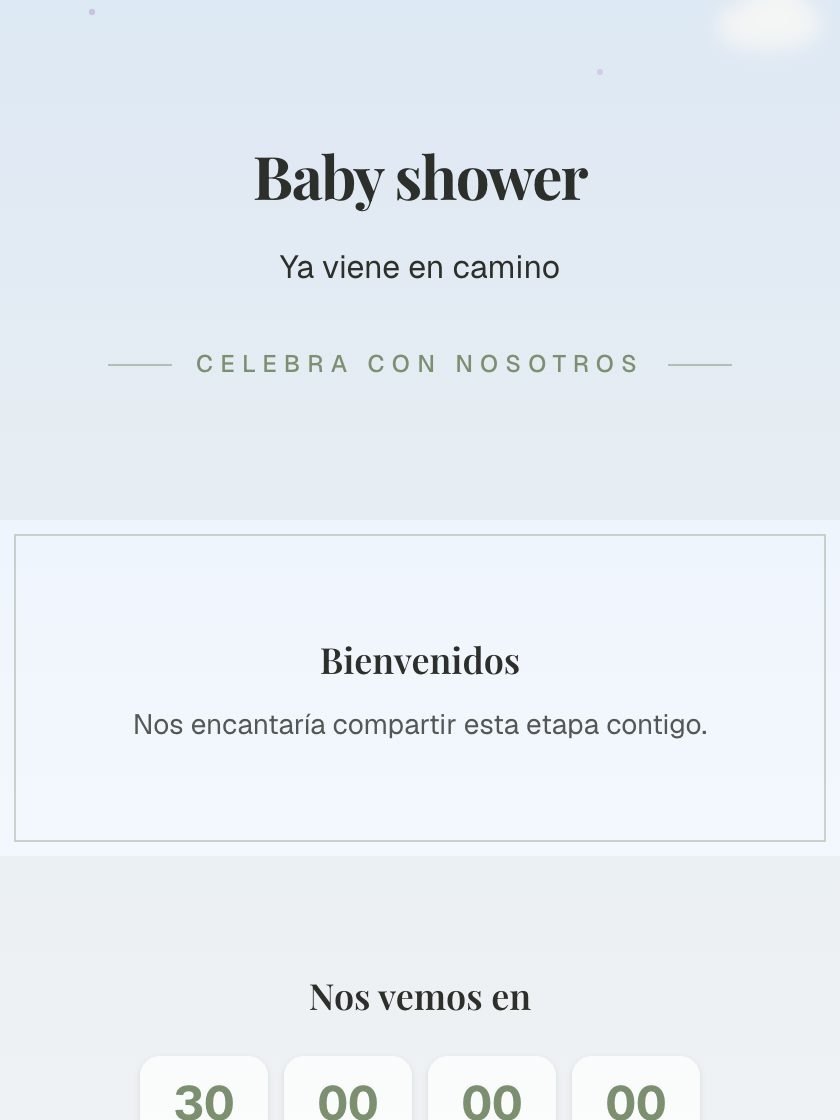
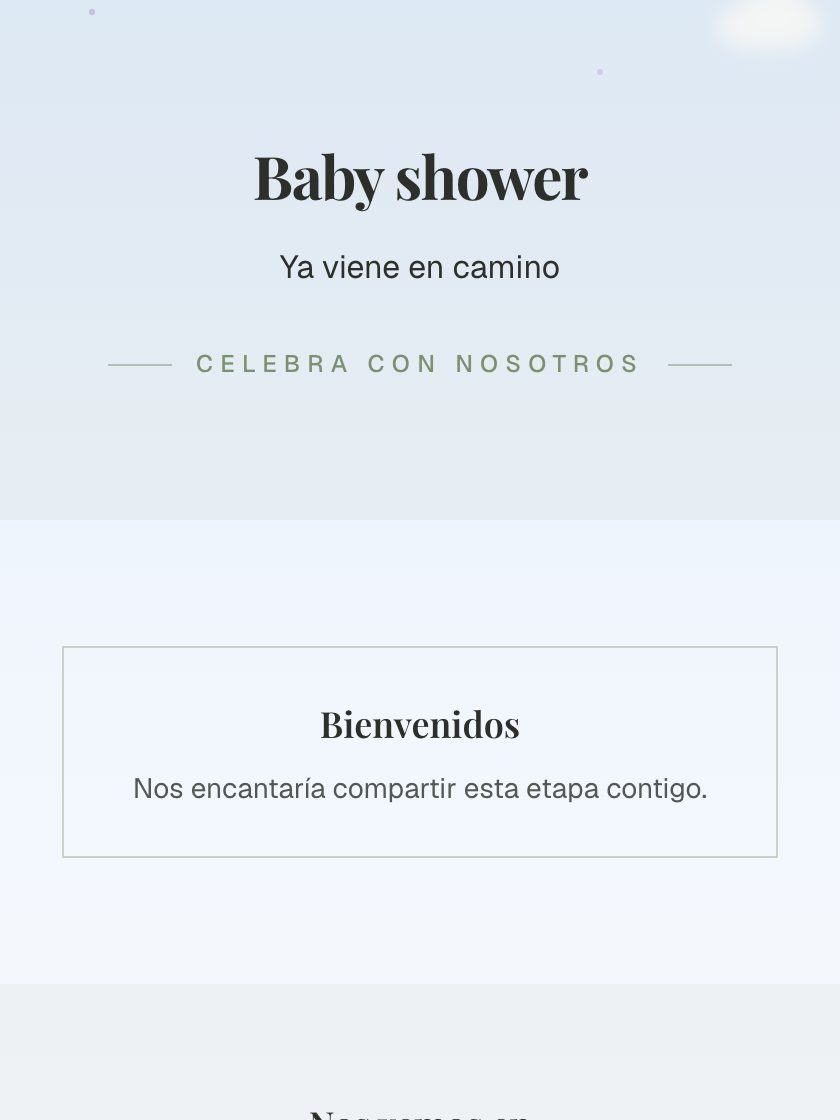
fix(tema): el marco sale del contenedor y envuelve el contenido — y la repuntuacion
EL ARREGLO. `FRAME_CLASSES` ponia el borde en el contenedor de la seccion, que
por debajo del breakpoint es A SANGRE: en movil el marco tocaba los dos bordes
de la pantalla y la pieza dejaba de leerse como tarjeta.

Envolviendo el CONTENIDO, el marco queda dentro del `px-6`/`px-10` del
contenedor y se separa de los bordes en cualquier ancho. Medido sobre `xv-seda`:

           antes              ahora
  1200px   896 · margen 152   816 · margen 192
   375px   375 · margen 0     327 · margen 24

Y no se hizo con un `mx-4`, que era lo obvio y estaba mal: tailwind-merge pone
`mx-4` y `mx-auto` en el MISMO grupo, asi que habria BORRADO el centrado de la
seccion en escritorio.

Recapturadas las 15 del piloto y solo cambiaron SIETE: exactamente las que
llevan el marco dentro del recorte de 560px. Las otras ocho, byte identicas. Las
4 de control de las 50 originales, tambien.

LA REPUNTUACION, Y MI PRONOSTICO ERA FALSO. El §19.3 predecia que el arreglo
«probablemente sube 3 o 4 al umbral». **Cruzaron CERO. Sigue 7 de 15.** Mobile
Potential sube de 6 a 8 en las siete penalizadas, pero:

  el deficit de las F4 no estaba en el movil. Esta en Uniqueness, Event
  Relevance y Premium Feel, tres columnas que un margen no toca.

Las dos mas cercanas se quedan fuera: corporativo-reticula 7.8, xv-seda 7.7.
`comunion-cinta` pasa de 5.5 a 5.8 y sigue siendo la peor.

Eso ENDURECE la conclusion del §19: el problema de F4 es de CONTENIDO, no de
[…]

diff --git a/src/components/modules/previews.tsx b/src/components/modules/previews.tsx
@@ -228,11 +228,43 @@ function Section({
   // el de antes, sin una envoltura de más. Es lo que permite comprobar por md5
   // que las 50 no se mueven.
   const conMedia = Boolean(media && media.position !== "none" && media.url);
-  const contenido = conMedia ? (
+  const cuerpo = conMedia ? (
     <ConMedia media={media!}>{children}</ConMedia>
   ) : (
     children
   );
+
+  // El marco envuelve el CONTENIDO, no el contenedor de la seccion.
+  //
+  // Estaba al reves y se veia solo en movil: el contenedor es a sangre por
+  // debajo del breakpoint, asi que el borde tocaba los dos lados de la pantalla
+  // y la pieza dejaba de leerse como tarjeta. Medido sobre `xv-seda`: a 1200 px
+  // el marco media 896 con 152 de margen a cada lado; a 375 px media 375 con
+  // margen CERO.
+  //
+  // Envolviendo el contenido, el marco queda dentro del `px-6`/`px-10` del
+  // contenedor y se separa de los bordes en CUALQUIER ancho, sin pelearse con
+  // el `mx-auto` que centra la seccion — un `mx-4` habria BORRADO ese
+  // `mx-auto`, porque tailwind-merge los pone en el mismo grupo.
+  //
+  // `w-full` porque casi todos los sitios de llamada son `flex items-center`, y
+  // sin el el marco se encogeria al ancho de su contenido.
+  const contenido =
+    frame === "none" ? (
+      cuerpo
+    ) : (
+      <div
+        className={cn("w-full", FRAME_CLASSES[frame])}
+        style={{
+          borderColor:
+            "color-mix(in srgb, var(--inv-primary, #888) 35%, transparent)",
+          outlineColor:
+            "color-mix(in srgb, var(--inv-primary, #888) 35%, transparent)",
+        }}
+      >
+        {cuerpo}
+      </div>
+    );
 
   return (
     <section
@@ -253,23 +285,10 @@ function Section({
           // resultado es, literalmente, el de antes.
           ALIGN_CLASSES[align],
           BLEED_CLASSES[bleed],
-          FRAME_CLASSES[frame],
           // `relative` solo con fondo: es el bloque contenedor de la capa
           // absoluta. Condicional para no tocar el camino por defecto.
           conMedia && media!.position === "background" && "relative",
         )}
-        // `undefined` sin marco: React omite el atributo y el HTML es el mismo
-        // de antes, byte a byte.
-        style={
-          frame === "none"
-            ? undefined
-            : {
-                borderColor:
-                  "color-mix(in srgb, var(--inv-primary, #888) 35%, transparent)",
-                outlineColor:
-                  "color-mix(in srgb, var(--inv-primary, #888) 35%, transparent)",
-              }
-        }
       >
         {contenido}
       </div>

diff --git a/src/lib/modules/portada-marco-stickers.test.ts b/src/lib/modules/portada-marco-stickers.test.ts
@@ -86,11 +86,13 @@ describe("P5 · marco de papelería", () => {
     expect(src.slice(i, src.indexOf("};", i))).toMatch(/none:\s*""/);
   });
 
-  it("sin marco no se emite `style` en el contenedor", () => {
-    // React omite el atributo con `undefined`, y por eso el HTML por defecto es
-    // idéntico byte a byte.
+  it("sin marco NO se añade ninguna envoltura", () => {
+    // Antes el marco vivía en el contenedor y esto comprobaba que no se emitía
+    // `style`. Desde que envuelve el contenido —para que no toque los bordes en
+    // móvil— la propiedad equivalente, y la que sostiene el «cero píxeles», es
+    // que con `none` el contenido pase TAL CUAL, sin un div de más.
     const src = leer("../../components/modules/previews.tsx");
-    expect(src).toContain('frame === "none"\n            ? undefined');
+    expect(src).toMatch(/frame === "none" \?\s*\(?\s*cuerpo/);
   });
 
   it("el color del marco sale del tema de la INVITACIÓN, no de un gris fijo", () => {
@@ -99,8 +101,8 @@ describe("P5 · marco de papelería", () => {
     // constantes PRIMARY y TINT del principio del archivo, así que buscarlo en
     // el archivo entero pasaba en verde con el color cambiado a un gris fijo.
     // Cazado por mutación.
-    const i = src.indexOf('frame === "none"');
-    const bloque = src.slice(i, src.indexOf("}\n      >", i));
+    const i = src.indexOf("FRAME_CLASSES[frame])");
+    const bloque = src.slice(i, src.indexOf("}}", i));
     expect(bloque).toContain("var(--inv-primary");
     expect(bloque).toContain("borderColor");
     expect(bloque).toContain("outlineColor");

diff --git a/src/lib/modules/composicion-seccion.test.ts b/src/lib/modules/composicion-seccion.test.ts
@@ -82,7 +82,13 @@ describe("el defecto no emite ni una clase", () => {
     // Acotado al `cn(` y NO al cuerpo de la función: `className,` aparece
     // ANTES, como parámetro desestructurado de la firma, y medir contra esa
     // posición dejaba pasar la inversión — cazado por mutación.
-    const i = src.indexOf("className={cn(", src.indexOf("function Section("));
+    // Ojo con el ancla: desde que el MARCO envuelve el contenido, dentro de
+    // `Section` hay DOS `className={cn(` y el primero es el del marco. Hay que
+    // buscar el del contenedor, que es el que lleva ALIGN/BLEED.
+    const i = src.indexOf(
+      "className={cn(",
+      src.indexOf("ALIGN_CLASSES[align]", src.indexOf("function Section(")) - 900,
+    );
     const cuerpo = src.slice(i, src.indexOf(")}", i));
     const posClassName = cuerpo.indexOf("className,");
     const posAlign = cuerpo.indexOf("ALIGN_CLASSES[align]");

diff --git a/src/lib/modules/slot-de-media.test.ts b/src/lib/modules/slot-de-media.test.ts
@@ -132,7 +132,7 @@ describe("sin imagen, el árbol es el de antes", () => {
     // contenido pasa TAL CUAL. Es lo que sostiene la igualdad de md5.
     expect(cuerpo).toContain('media.position !== "none"');
     expect(cuerpo).toContain("media.url");
-    expect(cuerpo).toMatch(/contenido = conMedia \?/);
+    expect(cuerpo).toMatch(/cuerpo = conMedia \?/);
   });
 
   it("los 12 <Section> reciben el slot", () => {

diff --git a/src/lib/invitations/template-preview.ts b/src/lib/invitations/template-preview.ts
@@ -67,4 +67,4 @@ export const ESCALA_CAPTURA = 2;
  * optimizador y la del navegador, y evita tener que renombrar 50 archivos o
  * volver a escribir 50 URLs en la BD en cada regeneración.
  */
-export const REVISION_MINIATURAS = "202609081957";
+export const REVISION_MINIATURAS = "202609082052";

diff --git a/docs/TEMPLATE_VISUAL_RESEARCH_V2.md b/docs/TEMPLATE_VISUAL_RESEARCH_V2.md
@@ -861,8 +861,9 @@ catálogo entero.
 
 ## 19.3 Recomendación
 
-1. **Arreglar el marco en móvil** antes de decidir nada más: es barato y mueve la
-   columna MP de siete plantillas. Después, **repuntuar**.
+1. ~~**Arreglar el marco en móvil**: es barato y mueve la columna MP de siete
+   plantillas; probablemente sube 3 o 4 al umbral.~~ **HECHO, y la predicción
+   falló: subieron CERO.** Ver §19.5.
 2. **No promover ninguna F4 al catálogo grande** con su forma actual. O se les da
    ilustración de verdad —lo que significa dibujar, no texturizar— o se convierten
    a F1/F3 con fotografía.
@@ -892,6 +893,52 @@ catálogo entero.
 - **Cinta** (5.5) — La más floja. Sin foto y sin textura, todo el peso cae en el título; y ningún elemento la ancla a una comunión.
 - **Diploma** (8.0) — Lectura inmediata del evento. Premium flojo: el confeti dorado tira a genérico.
 - **Retícula** (7.7) — La única alineada a la izquierda, y eso la distingue. Se queda a un pelo por el marco en móvil.
+
+---
+
+## 19.5 Repuntuación tras arreglar el marco (2026-09-08)
+
+El §19.3 recomendaba arreglar el marco en móvil y repuntuar, y predecía que
+*«probablemente sube 3 o 4 de ellas al umbral»*.
+
+**Esa predicción era falsa. Cruzaron el umbral CERO. Sigue 7 de 15.**
+
+El arreglo funciona —medido sobre `xv-seda`, el marco pasa de 375 px con margen
+**0** a 327 px con margen **24** a cada lado, y de 896/152 a 816/192 en
+escritorio— y sube Mobile Potential de 6 a 8 en las siete que lo tenían
+penalizado. Pero no alcanza, y el motivo importa:
+
+> **El déficit de las F4 no estaba en el móvil.** Está en Uniqueness, Event
+> Relevance y Premium Feel, tres columnas que un margen no toca. `comunion-cinta`
+> pasa de 5.5 a 5.8 y sigue siendo la peor; `revelacion-dos-sobres` y
+> `baby-nube-de-algodon` se quedan en 6.3 porque siguen siendo la misma pieza.
+
+Las dos más cercanas se quedan a las puertas: `corporativo-reticula` **7.8** y
+`xv-seda` **7.7**.
+
+| plantilla | fam. | MP antes → ahora | prom antes | **prom ahora** | |
+|---|---|---|---|---|---|
+| `xv-corona` | F3 | 8 → 8 | 8.7 | **8.7** | ✅ |
+| `boda-jardin-partido` | F1 | 8 → 8 | 8.5 | **8.5** | ✅ |
+| `baby-punto-y-flor` | F1 | 8 → 8 | 8.2 | **8.2** | ✅ |
+| `revelacion-coral` | F3 | 8 → 8 | 8.0 | **8.0** | ✅ |
+| `cumpleanos-arco` | F1 | 8 → 8 | 8.0 | **8.0** | ✅ |
+| `bautizo-cera-blanca` | F3 | 8 → 8 | 8.0 | **8.0** | ✅ |
+| `graduacion-diploma` | F1 | 8 → 8 | 8.0 | **8.0** | ✅ |
+| `corporativo-reticula` | F4 | 7 → 8 | 7.7 | **7.8** | ❌ |
+| `xv-seda` | F4 | 6 → 8 | 7.3 | **7.7** | ❌ |
+| `boda-papel-y-lino` | F4 | 6 → 8 | 7.2 | **7.5** | ❌ |
+| `cumpleanos-papel-picado` | F4 | 6 → 8 | 6.3 | **6.7** | ❌ |
+| `baby-nube-de-algodon` | F4 | 6 → 8 | 6.0 | **6.3** | ❌ |
+| `revelacion-dos-sobres` | F4 | 6 → 8 | 6.0 | **6.3** | ❌ |
+| `boda-marco-nuestro` | F5 | 7 → 8 | 6.0 | **6.2** | ❌ |
+| `comunion-cinta` | F4 | 6 → 8 | 5.5 | **5.8** | ❌ |
+
+**Lo que esto confirma:** el problema de la familia F4 es de CONTENIDO, no de
+maquetación. Arreglar la presentación era barato y correcto —y había que
+hacerlo—, pero no convierte una pieza sin nada que mirar en una pieza premium.
+La recomendación del §19.3 se mantiene y se endurece: **o ilustración de verdad,
+o fotografía.**
 
 ---
 
